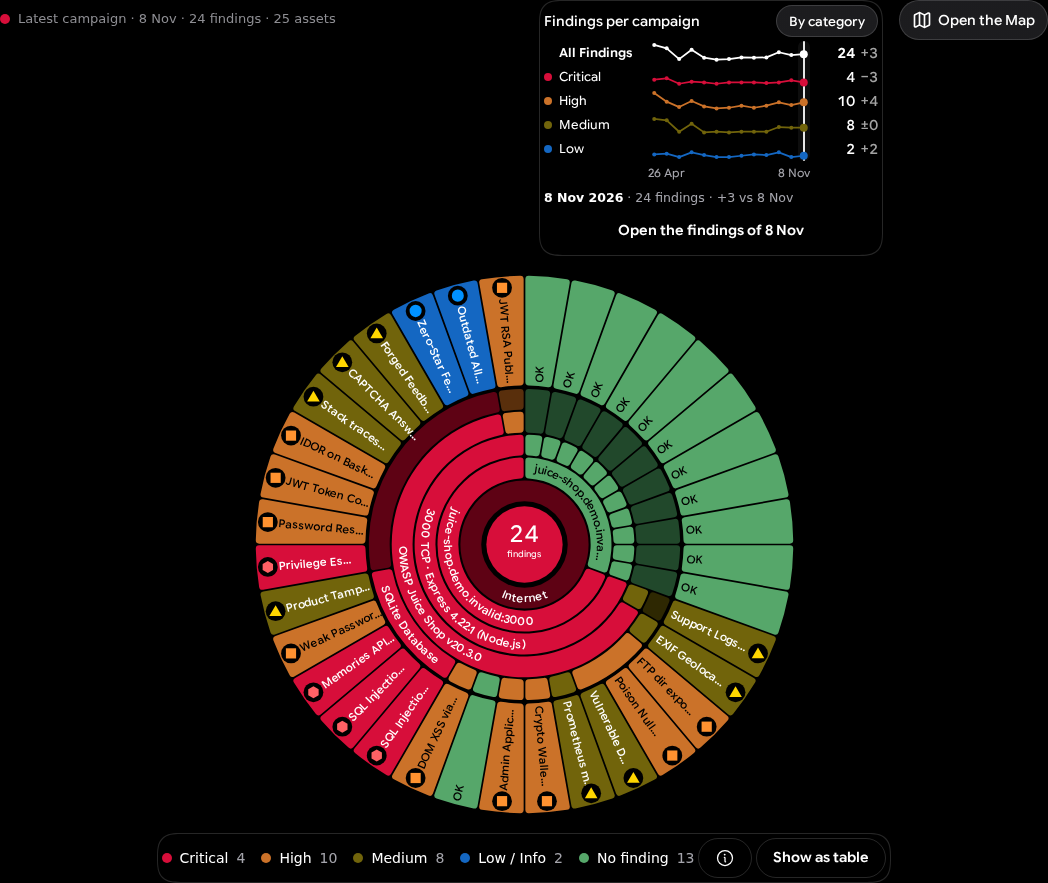
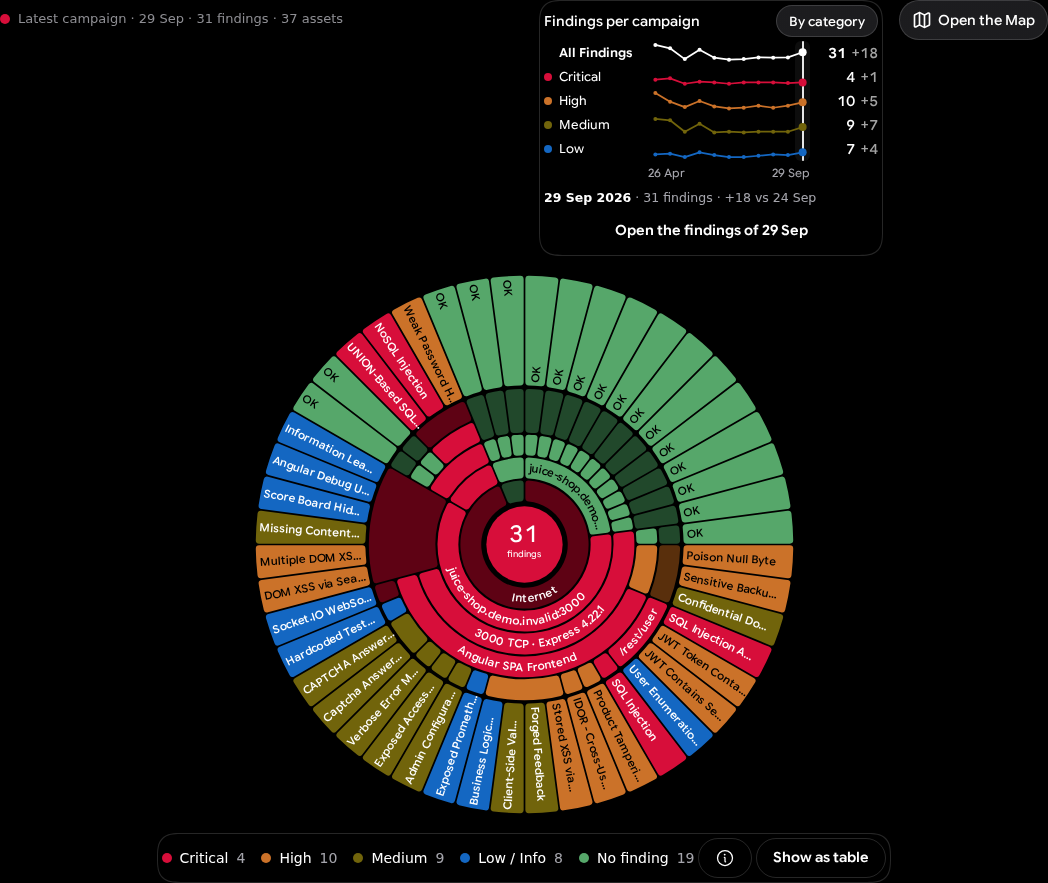
docs(readme): project sunburst without severity markers (#72) [skip ci]

diff --git a/README.md b/README.md
@@ -202,8 +202,8 @@ The screenshots below are the **paid Darkmoon Pro** web dashboard. They are **no
 <p align="center"><b>Pro: live web dashboard with campaign history.</b> Projects, targets, campaigns and vulnerabilities at a glance, findings split by severity, a security posture table giving each project its Cyber Score grade, latest assessment and first treatment action, and every campaign with its counts and a comparison with the previous scan.</p>
 </td>
 <td width="50%" valign="top">
-<img src="docs/pics/pro/project-sunburst.png" alt="Darkmoon Pro project sunburst of the OWASP Juice Shop project: latest campaign of 8 Nov with 24 findings across 25 assets, rings from Internet to the host, service, application and one segment per finding with a severity marker, assets with no finding in green, and a Findings per campaign chart tracking critical, high, medium and low counts across 13 campaigns from 26 Apr to 8 Nov" />
-<p align="center"><b>Pro: project sunburst and history.</b> The latest campaign at a glance, from the zone in the centre out to host, service, application and one segment per finding with its severity marker, and <b>Findings per campaign</b> tracking how the counts move over time. Here: 13 anonymised real campaigns against OWASP Juice Shop.</p>
+<img src="docs/pics/pro/project-sunburst.png" alt="Darkmoon Pro project sunburst of the OWASP Juice Shop project: latest campaign of 29 Sep with 31 findings across 37 assets, rings from Internet to the host, service, application and one segment per finding coloured by severity, assets with no finding in green, and a Findings per campaign chart tracking critical, high, medium and low counts across 11 campaigns from 26 Apr to 29 Sep" />
+<p align="center"><b>Pro: project sunburst and history.</b> The latest campaign at a glance, from the zone in the centre out to host, service, application and one segment per finding coloured by severity, and <b>Findings per campaign</b> tracking how the counts move over time. Here: 11 anonymised real campaigns against OWASP Juice Shop.</p>
 </td>
 </tr>
 <tr>
